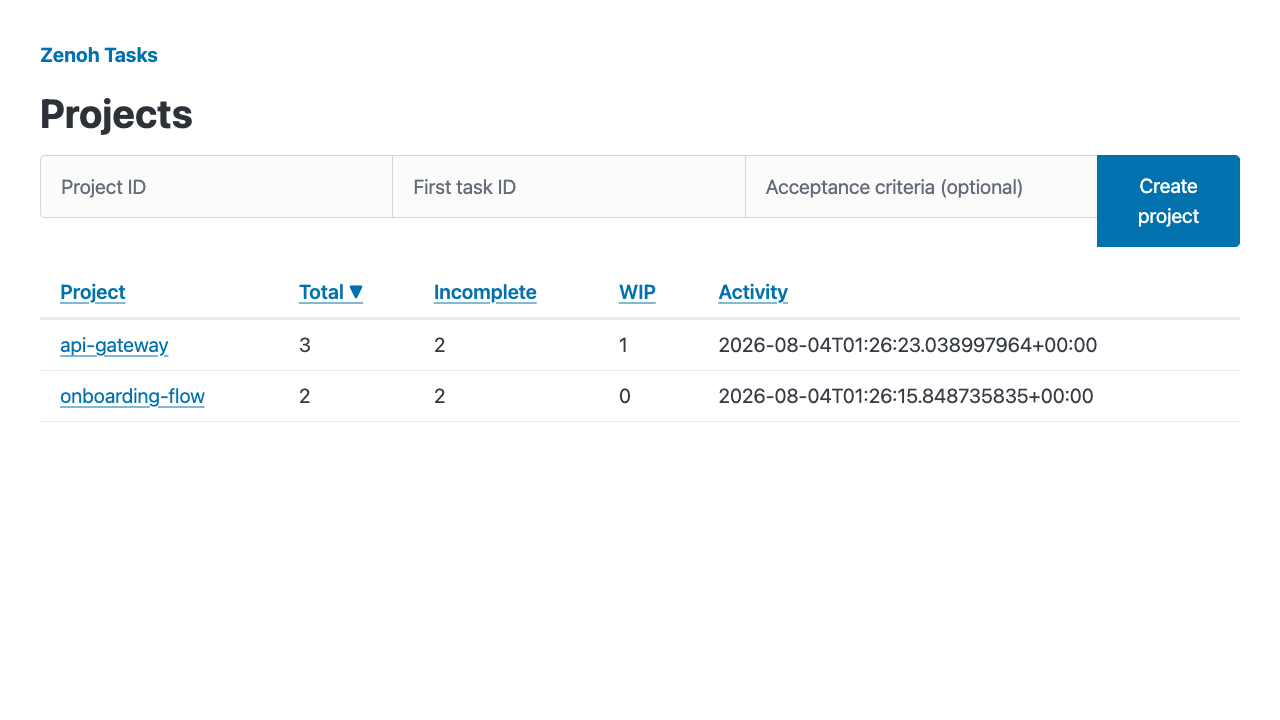
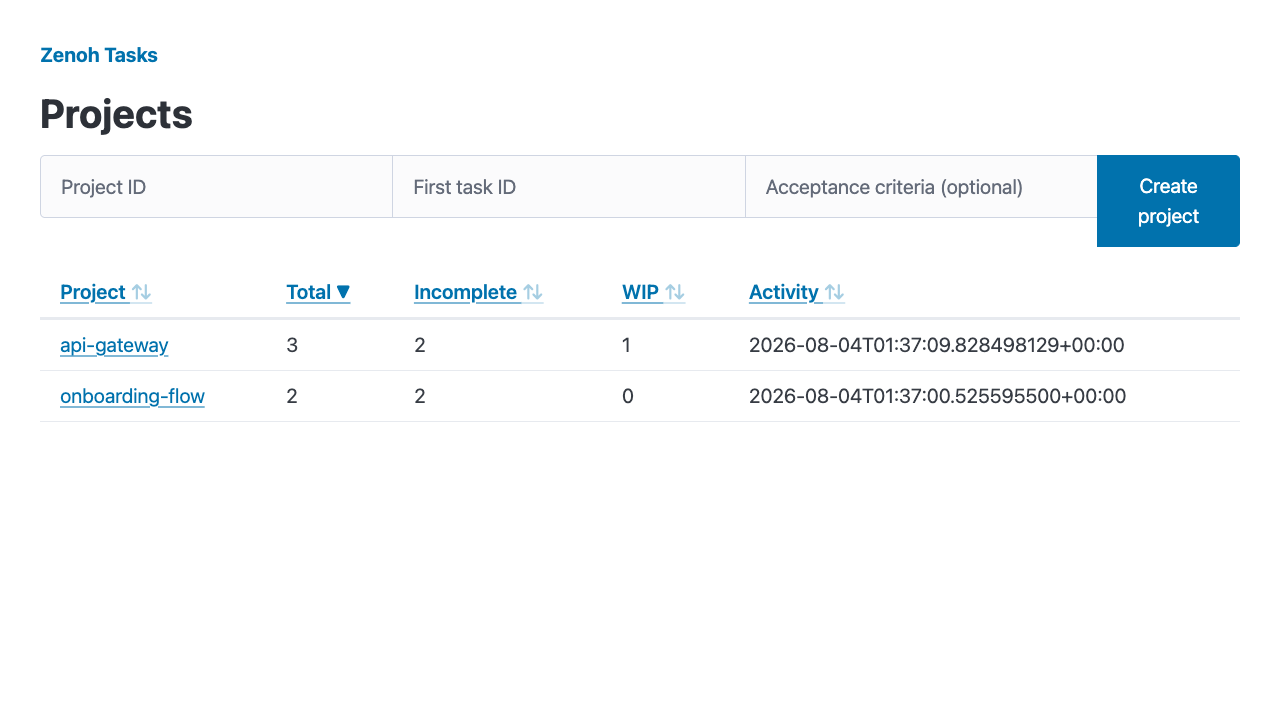
fix(web): show a sort indicator on all dashboard columns, not just the active one
Only the active sort column showed an arrow, so the column headers
didn't visually read as sortable at a glance (e.g. in a static
screenshot). Inactive columns now show a muted up/down icon too.

diff --git a/web/templates/dashboard.html b/web/templates/dashboard.html
@@ -22,11 +22,11 @@
 <table>
     <thead>
         <tr>
-            <th><a href="{{ sort_name_href }}">Project{% if active_sort == "name" %} {% if active_dir == "asc" %}▲{% else %}▼{% endif %}{% endif %}</a></th>
-            <th><a href="{{ sort_total_href }}">Total{% if active_sort == "total" %} {% if active_dir == "asc" %}▲{% else %}▼{% endif %}{% endif %}</a></th>
-            <th><a href="{{ sort_incomplete_href }}">Incomplete{% if active_sort == "incomplete" %} {% if active_dir == "asc" %}▲{% else %}▼{% endif %}{% endif %}</a></th>
-            <th><a href="{{ sort_wip_href }}">WIP{% if active_sort == "wip" %} {% if active_dir == "asc" %}▲{% else %}▼{% endif %}{% endif %}</a></th>
-            <th><a href="{{ sort_activity_href }}">Activity{% if active_sort == "activity" %} {% if active_dir == "asc" %}▲{% else %}▼{% endif %}{% endif %}</a></th>
+            <th><a href="{{ sort_name_href }}">Project {% if active_sort == "name" %}{% if active_dir == "asc" %}▲{% else %}▼{% endif %}{% else %}<span style="opacity:0.35">⇅</span>{% endif %}</a></th>
+            <th><a href="{{ sort_total_href }}">Total {% if active_sort == "total" %}{% if active_dir == "asc" %}▲{% else %}▼{% endif %}{% else %}<span style="opacity:0.35">⇅</span>{% endif %}</a></th>
+            <th><a href="{{ sort_incomplete_href }}">Incomplete {% if active_sort == "incomplete" %}{% if active_dir == "asc" %}▲{% else %}▼{% endif %}{% else %}<span style="opacity:0.35">⇅</span>{% endif %}</a></th>
+            <th><a href="{{ sort_wip_href }}">WIP {% if active_sort == "wip" %}{% if active_dir == "asc" %}▲{% else %}▼{% endif %}{% else %}<span style="opacity:0.35">⇅</span>{% endif %}</a></th>
+            <th><a href="{{ sort_activity_href }}">Activity {% if active_sort == "activity" %}{% if active_dir == "asc" %}▲{% else %}▼{% endif %}{% else %}<span style="opacity:0.35">⇅</span>{% endif %}</a></th>
         </tr>
     </thead>
     <tbody>
